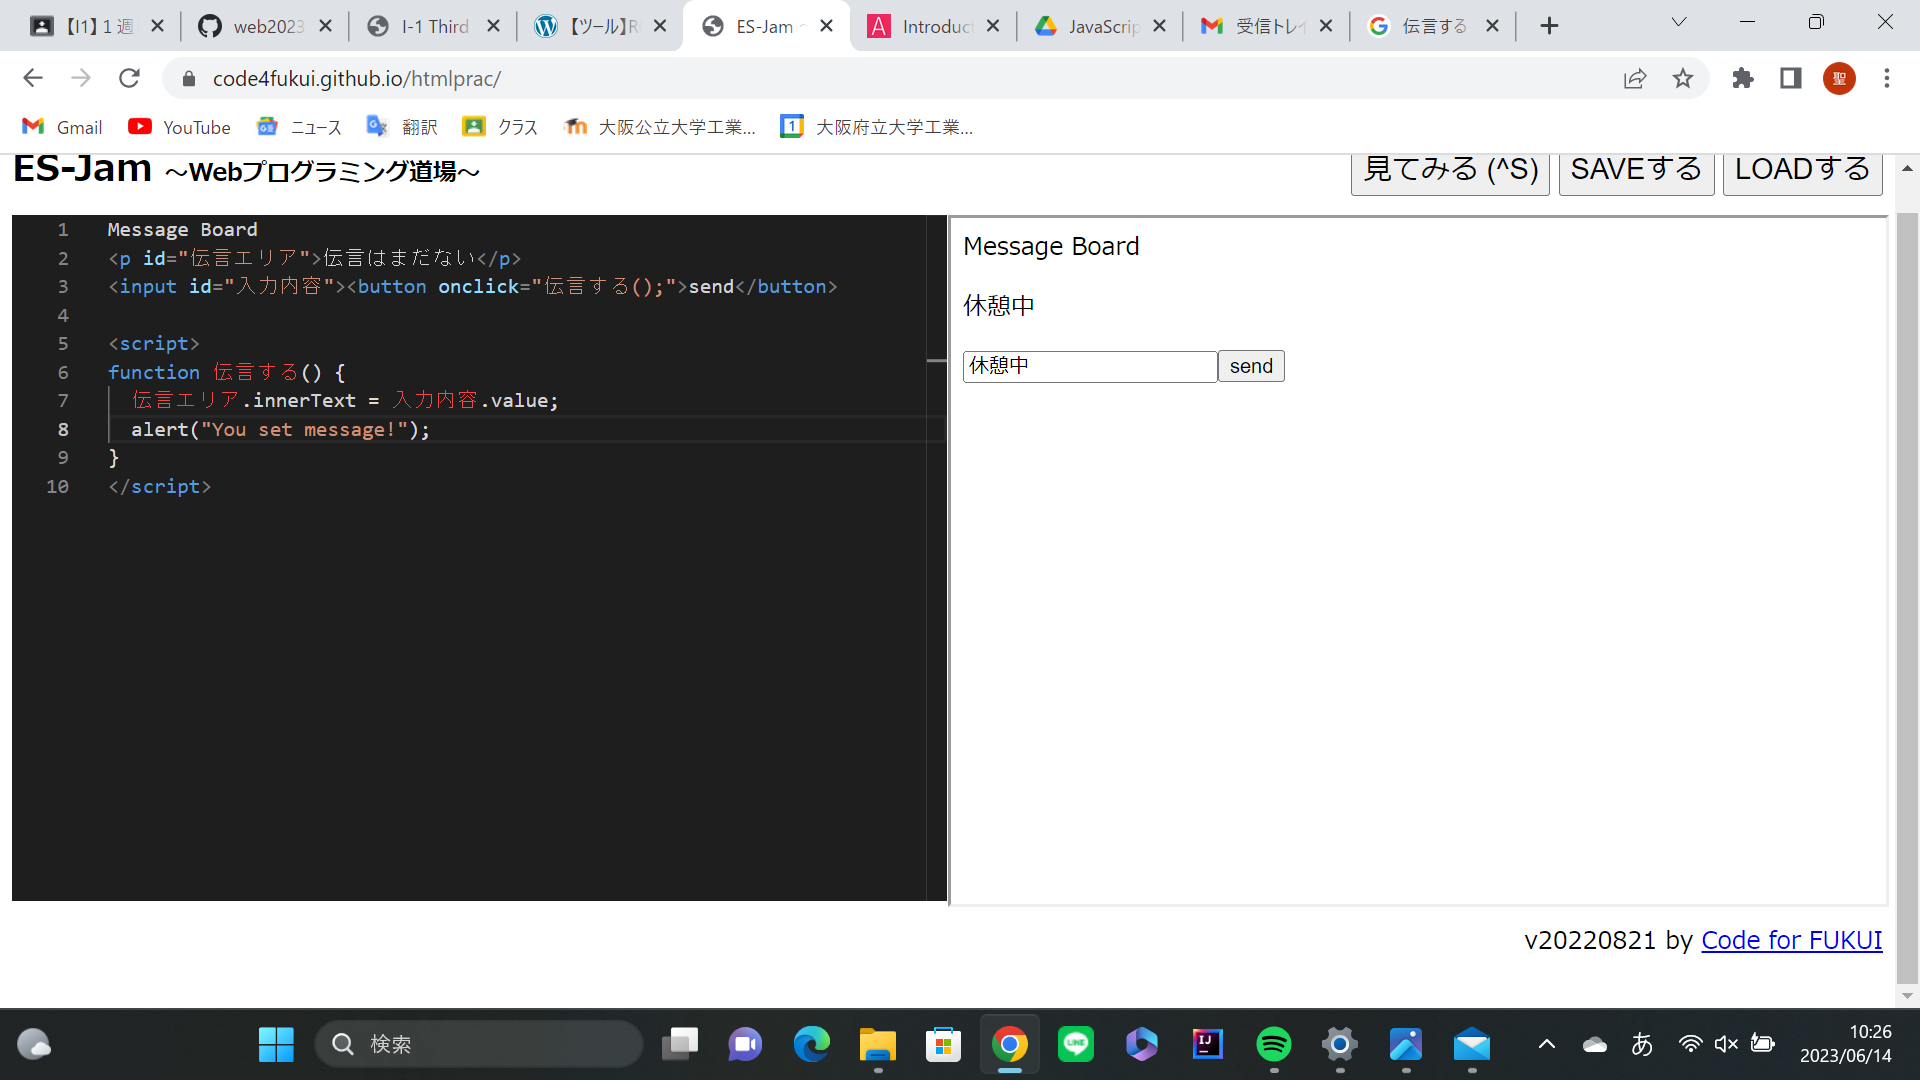
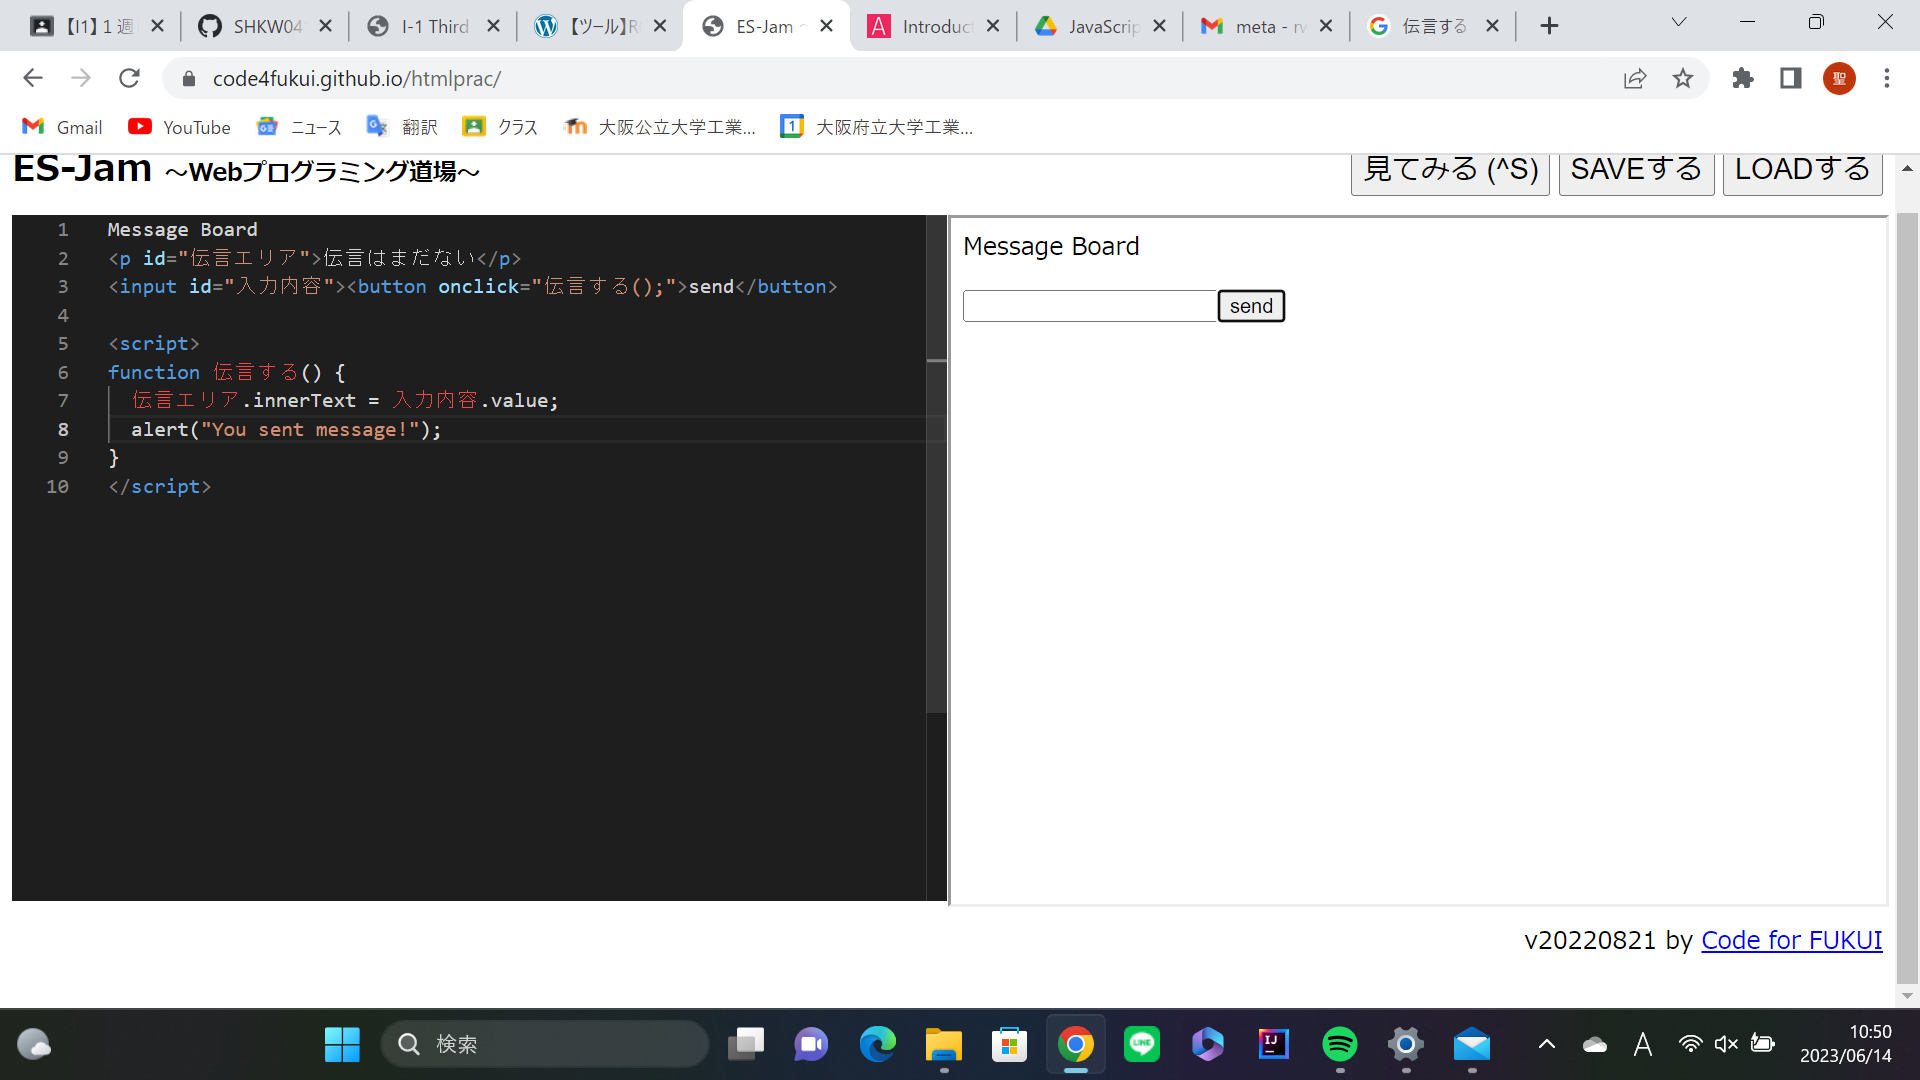
Add files via upload

diff --git a/dengon.html b/dengon.html
@@ -5,6 +5,6 @@ Message Board
 <script>
 function 伝言する() {
   伝言エリア.innerText = 入力内容.value;
-  alert("You set message!");
+  alert("You sent message!");
 }
 </script>
